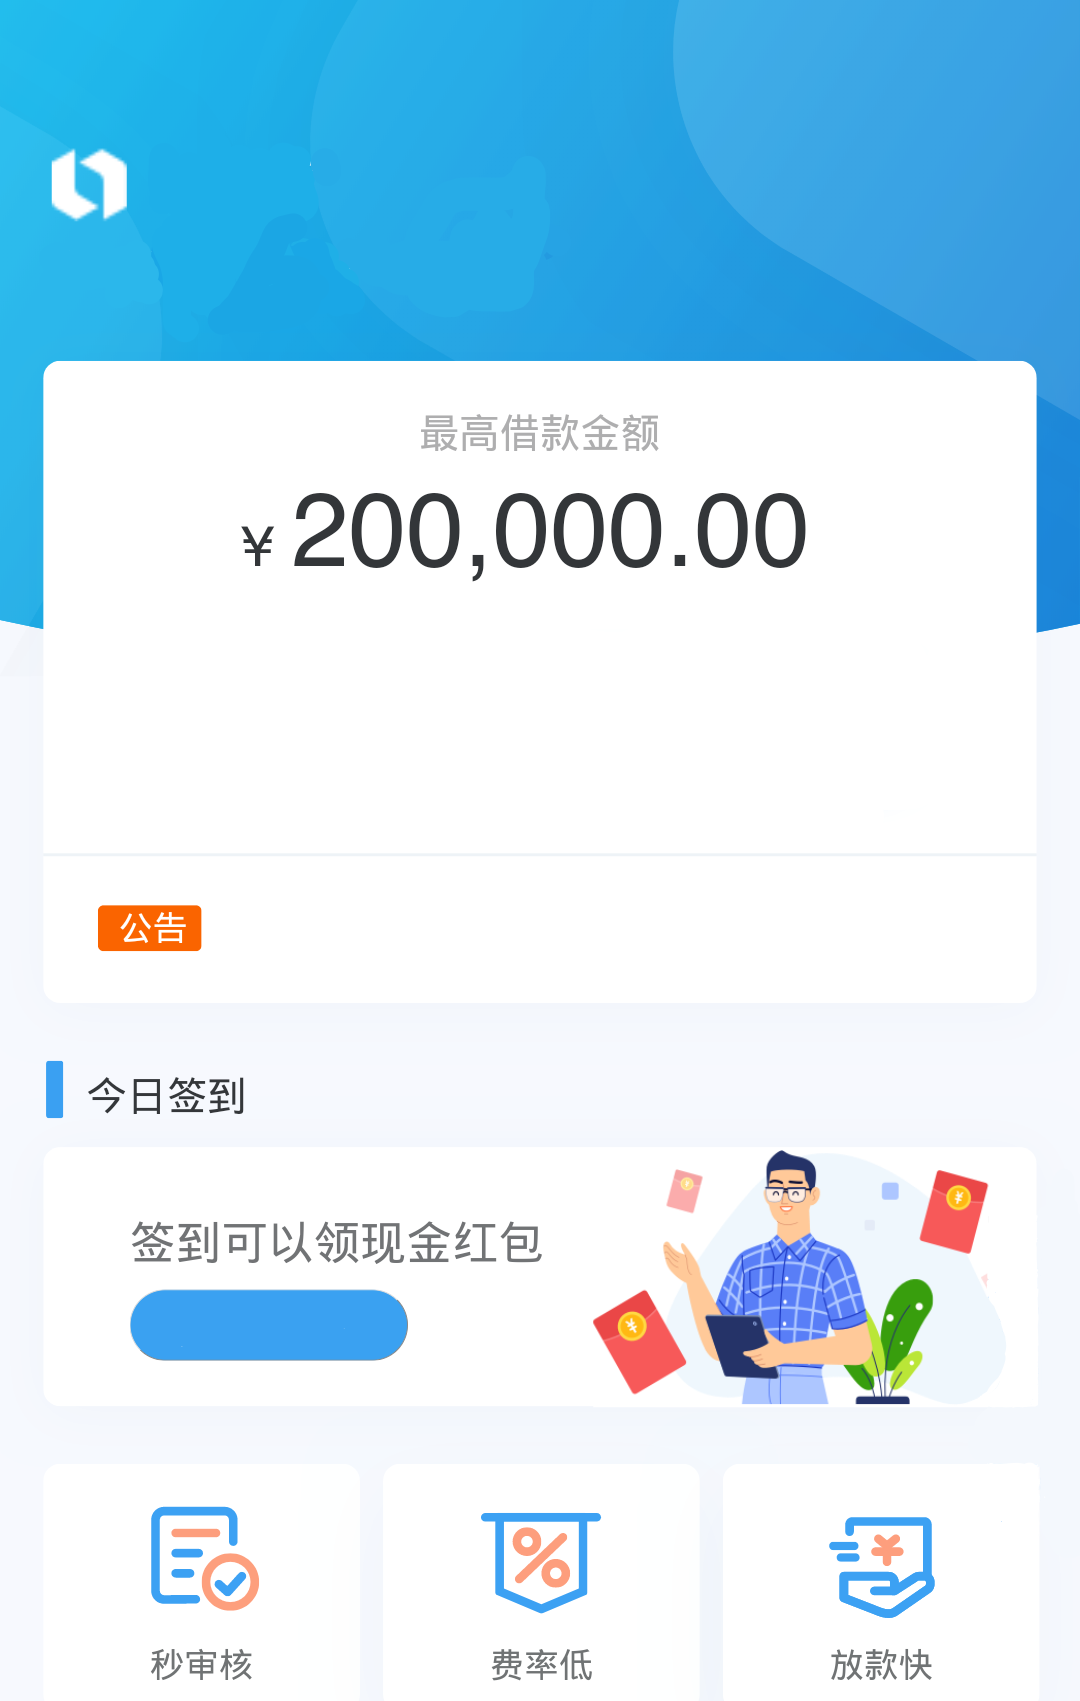
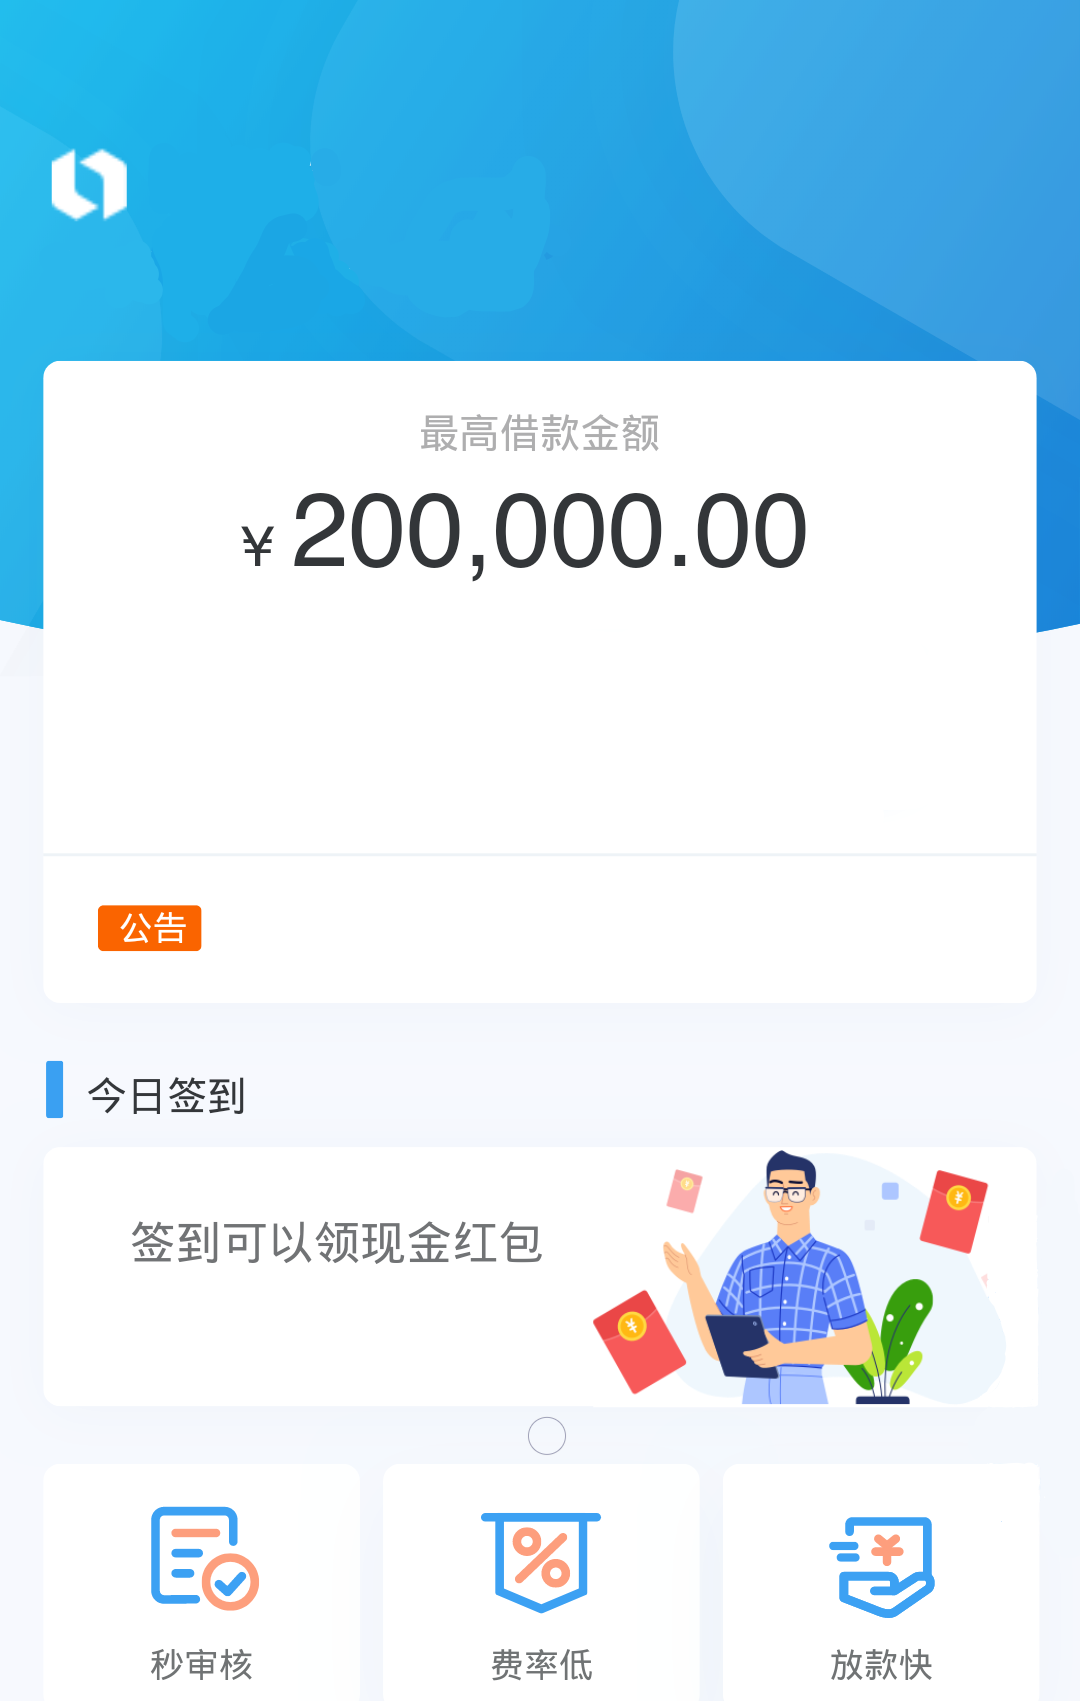
fix index page

Changed region(s): [[0.1222, 0.7478, 0.3972, 0.8101]]

diff --git a/App/Tpl/Home/Index_index.html b/App/Tpl/Home/Index_index.html
@@ -78,7 +78,7 @@
             font-size: 25px;
             position: absolute;
             padding-left: 0.15rem;
-            padding-top: 0.45rem;
+            padding-top: 0.5rem;
             color: white;
         }
 
@@ -157,8 +157,8 @@
                 </foreach>
             </marquee>
         </div>
-        <a href="javascript:;"
-           style="position: absolute;margin-top: 1.1rem;margin-left: .4rem;font-size: 15px;color: white;;">点我签到</a>
+        <a href="javascript:;" class="button"
+           style="position: absolute;margin-top: 1.1rem;margin-left: .3rem;font-size: 2px;color: white;width: .7rem;padding: 2px;">点我签到</a>
     </div>
     <nav class="mui-bar mui-bar-tab bottom-bar">
         <a class="mui-tab-item cur" href="{:U('Index/index')}">
